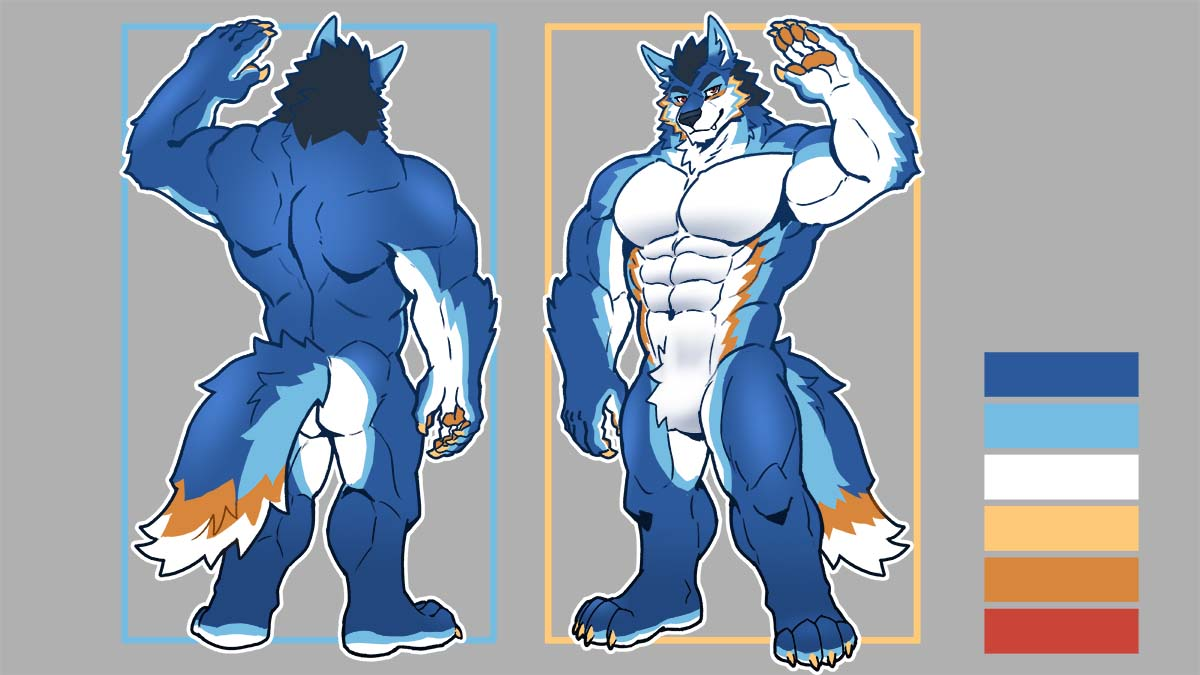
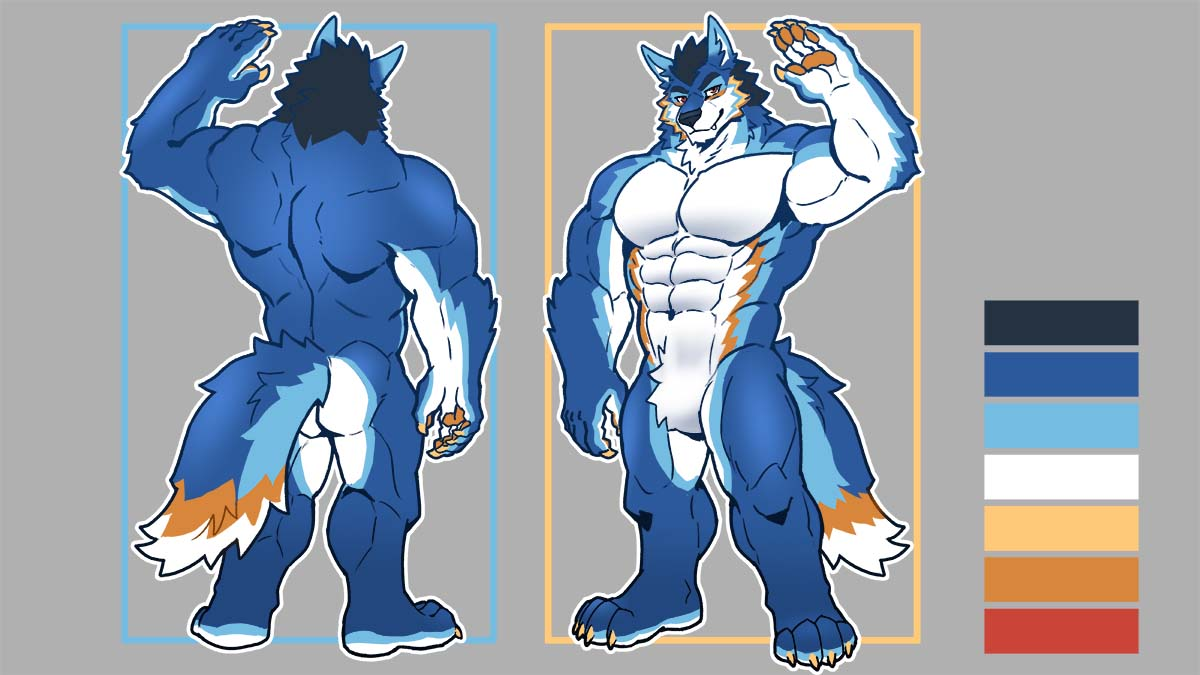
Add missing color to ref sheet

Changed region(s): [[0.8017, 0.4356, 0.9558, 0.5289]]

diff --git a/src/components/Pages/CharacterReference/ColorPalette.tsx b/src/components/Pages/CharacterReference/ColorPalette.tsx
@@ -10,6 +10,9 @@ export const ColorPalette = ({ className }) => {
                 <FormattedMessage id="reference.color_palette" />
             </InvisibleH2>
             <Container>
+                <Color color="#243242" $textColor="white">
+                    #243242
+                </Color>
                 <Color color="#2C599B" $textColor="white">
                     #2C599B
                 </Color>
@@ -41,6 +44,15 @@ const Container = styled.ul`
     display: grid;
     gap: 1rem;
     grid-template-columns: repeat(3, 1fr);
+    > *:nth-child(4) {
+        grid-column-start: span 3;
+        text-align: center;
+        // Bootstrap's md
+        @media (min-width: 768px) {
+            grid-column-start: auto;
+            text-align: start;
+        }
+    }
     // Bootstrap's md
     @media (min-width: 768px) {
         gap: 0;
